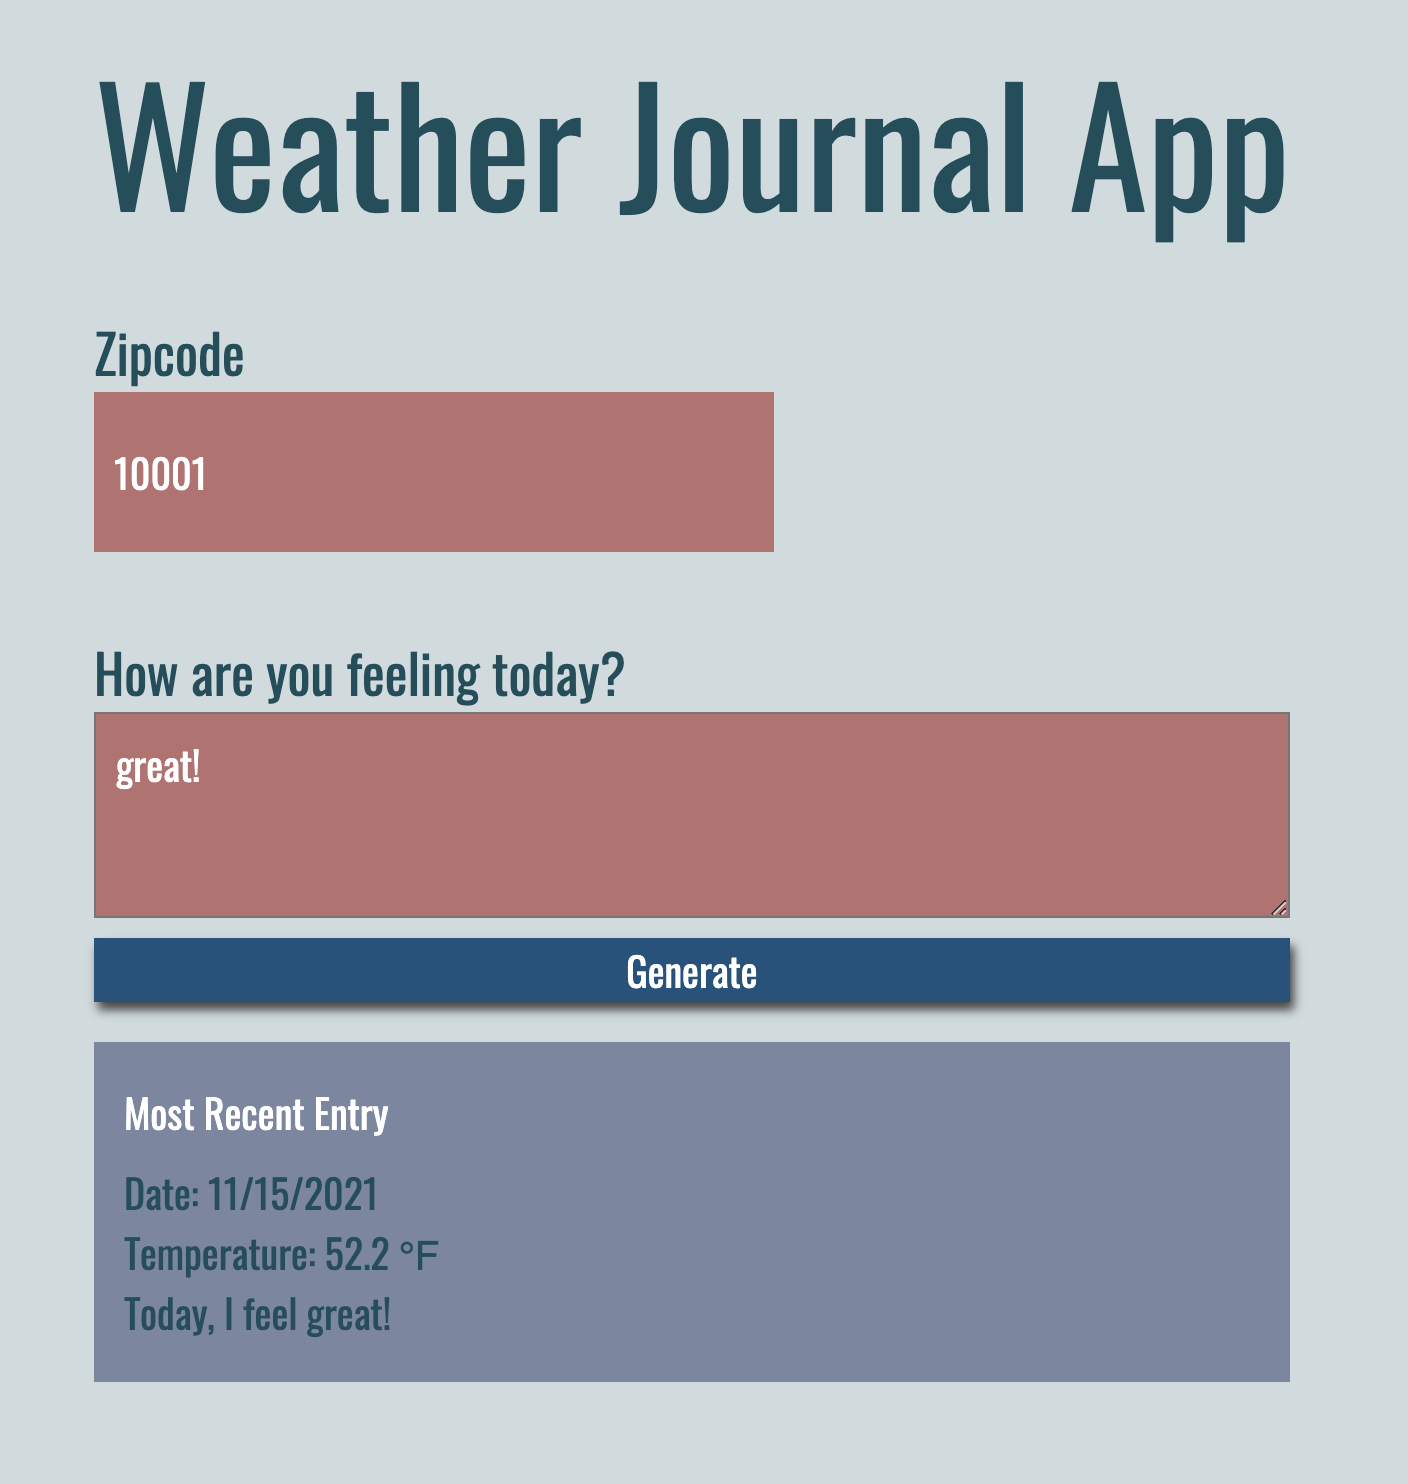
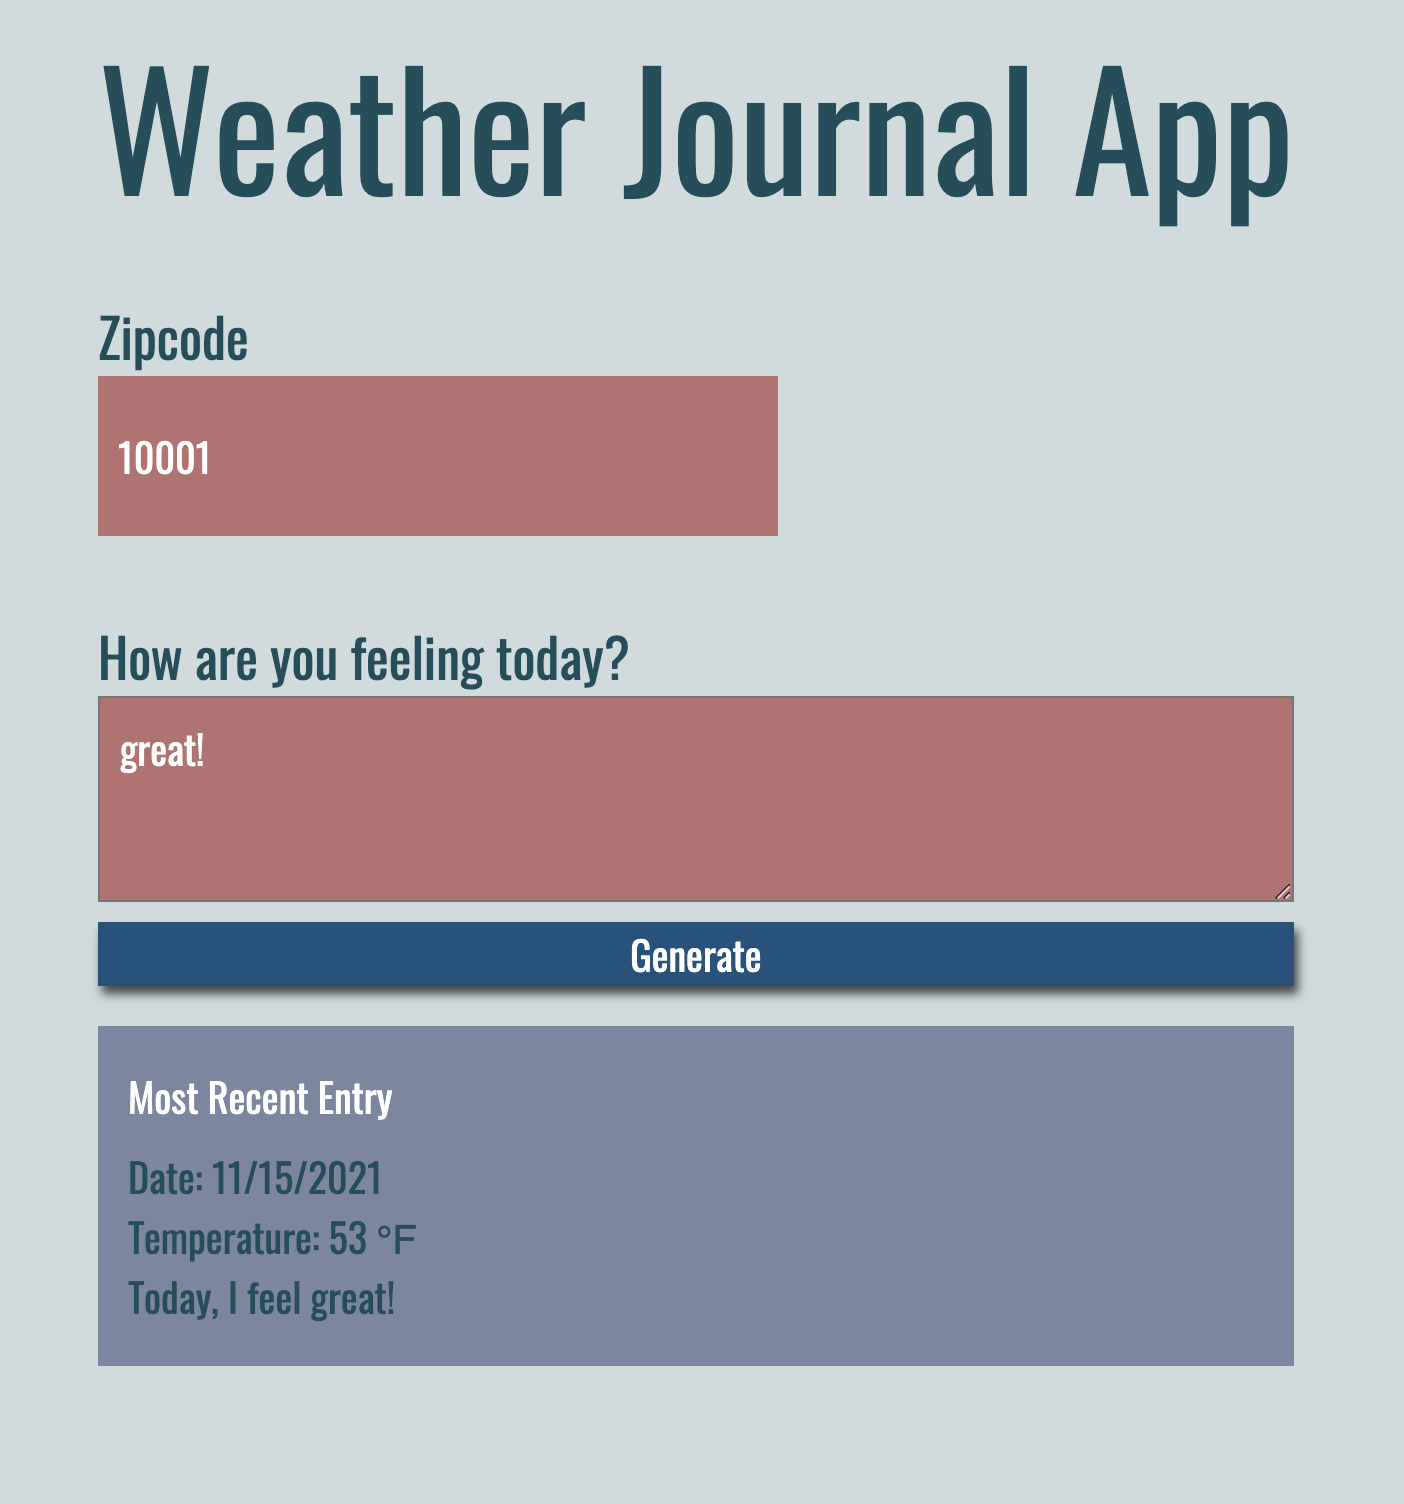
Finished Project/Cleanup

diff --git a/website/app.js b/website/app.js
@@ -30,7 +30,7 @@ const getWeather = async (baseURL, zip, key) => {
     const data = await res.json();
     return data;
   } catch (error) {
-    console.error("Error");
+    console.error(error);
   }
 };
 
@@ -51,7 +51,7 @@ const postData = async (url = "", data = {}) => {
     console.log(newData);
     return newData;
   } catch (error) {
-    console.error("Error");
+    console.error(error);
   }
 };
 
@@ -61,13 +61,13 @@ const updateUI = async () => {
   try {
     const allData = await request.json();
     document.getElementById("date").innerHTML = `Date: ${newDate}`;
-    document.getElementById(
-      "temp"
-    ).innerHTML = `Temperature: ${allData[0].temp} &#8457`;
+    document.getElementById("temp").innerHTML = `Temperature: ${Math.round(
+      allData[0].temp
+    )} &#8457`;
     document.getElementById(
       "content"
     ).innerHTML = `Today, I feel ${allData[0].content}`;
   } catch (error) {
-    console.error("Error");
+    console.error(error);
   }
 };

diff --git a/README.md b/README.md
@@ -18,8 +18,8 @@ Create an asynchronous web application that utilizes the OpenWeatherMap API to r
 
 1. Make sure `nodejs` and `npm` are installed locally
    - To run the server, use command `http-server`
-   - Install `nodemon` and use command `nodemon ./server.js localhost 8080` to run server
-   - `Nodemon` will ensure that the server restarts every time you save your file(s)
+   - Install Nodemon with `npm install -g nodemon` and use command `nodemon ./server.js localhost 8080` to run server
+   - Nodemon will ensure that the server restarts every time you save your file(s)
 2. Get personal `API Credentials` from OpenWeatherMap API
 3. Add `POST` and `GET` routes to `app.js`
 4. Create asynchronous JS functions to get weather data, and then store the data in the local server
@@ -46,6 +46,11 @@ Create an asynchronous web application that utilizes the OpenWeatherMap API to r
 ## References/Credit
 
 - https://openweathermap.org/appid
+- https://medium.com/@KumarNik_/node-js-routing-with-express-js-91aa6dc129be
+- https://developer.mozilla.org/en-US/docs/Learn/JavaScript/Asynchronous/Introducing
+- https://dev.to/johnpaulada/synchronous-fetch-with-asyncawait
+- https://developer.mozilla.org/en-US/docs/Web/JavaScript/Reference/Operators/await
+- https://rollbar.com/guides/javascript/where-are-javascript-errors-logged/
 
 <a name="Result"></a>
 
